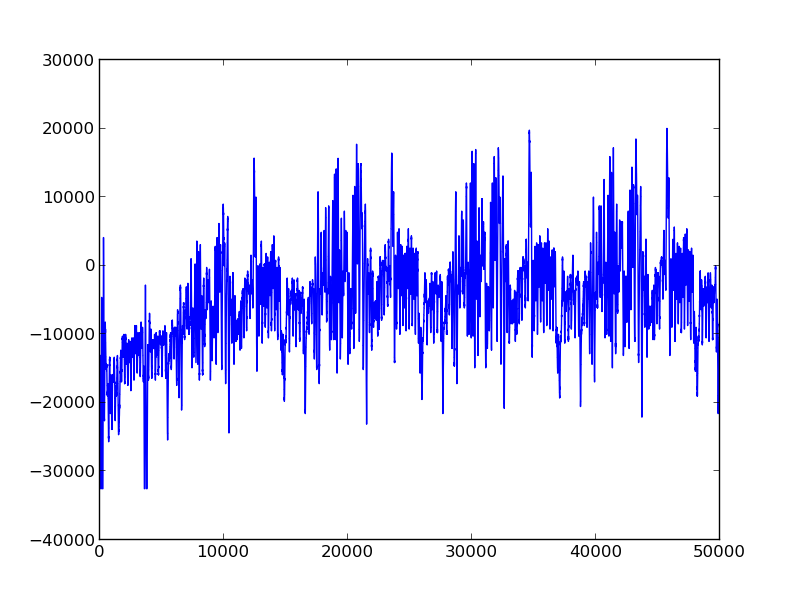
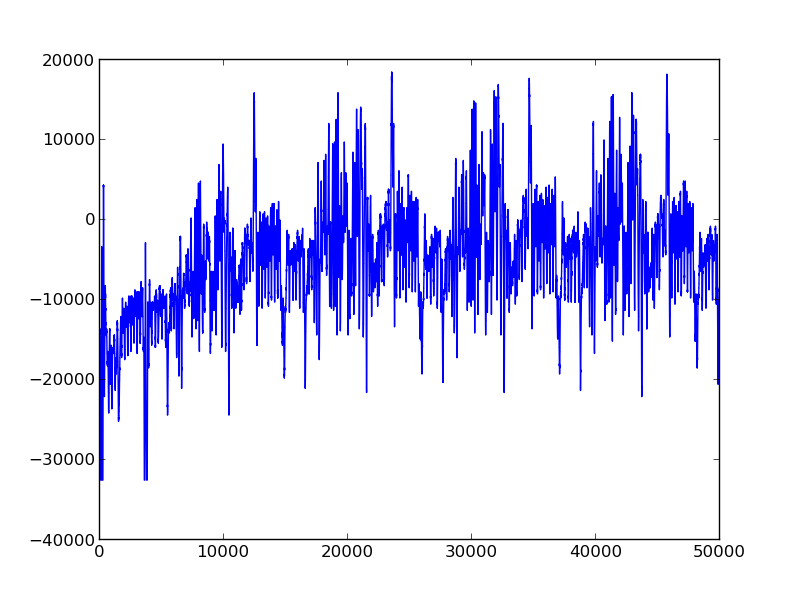
new attack

diff --git a/coursework/35743/scope/attack.py b/coursework/35743/scope/attack.py
@@ -300,79 +300,31 @@ def attack( argc, argv):
     print(T.shape)
     print(numberOfTraces)
     print(noOfSamplesInTrace)
-    noOfSamplesUsed = 300
+    noOfSamplesUsed = numberOfTraces
     finalKey = []
-    startingTraceValue = 3000
-    windowSize = 3000
-    timeKeyFinds = []
     for keyByte in range (16):
-
-
-
         print("keybyte: ", keyByte)
-        correlationTable = numpy.zeros((windowSize, 256))
-        plotKeyTries = []
         maxCorrelation = 0
         bestKey = -1
         timeFound = -1
         plotcorrelations = []
-        hypotheticalConsumptions = numpy.zeros((256, noOfSamplesInTrace))
+        hypotheticalConsumptions = numpy.zeros((256, noOfSamplesUsed))
         for keyHypothesis in range(256):
             for sampleNumber in range(noOfSamplesUsed):
                 plaintextByte = M[sampleNumber, keyByte]
                 hypotheticalConsumptions[keyHypothesis][sampleNumber] = hammingWeightConsumption(plaintextByte, keyHypothesis)
-        correlations = corr2_coeff(hypotheticalConsumptions, T)
-        argumentPosition = numpy.nanargmax(correlations)
-        xpos = argumentPosition % 300
-        ypos = (argumentPosition-xpos) / 256
+        correlations = numpy.abs(corr2_coeff(hypotheticalConsumptions, T.T))
+        print("testtttt")
+        print(hypotheticalConsumptions.shape)
+        print(T.shape)
+        print(correlations.shape)
 
-        max = 0
-        bigi = 0
-        bigj= 0
-        for i  in range(256):
-            for j in range(300):
-                if(abs(correlations[i][j]) > max):
-                    max = abs(correlations[i][j])
-                    bigi = i
-                    bigj = j
-        print(max, bigi, bigj)
-        print(xpos, ypos)
-        numpy.nanmax(correlations)
-        print(correlations)
-        '''
-        for keyHypothesis in range(256):
-            hypotheticalConsumptions = numpy.zeros(())
+        keyFound = numpy.nanargmax(numpy.nanmax(correlations, axis = 1))
+        print(keyFound)
+        finalKey.append(keyFound)
+        print("key byte:", hex(keyFound))
 
-
-            thismaxcorrelation = 0
-            hypoConsumptions = []
-            for sampleNumber in range(noOfSamplesUsed):
-                plaintextByte = M[sampleNumber, keyByte]
-                hypotheticalPowerConsumption = hammingWeightConsumption(plaintextByte, keyHypothesis)
-                hypoConsumptions.append(hypotheticalPowerConsumption)
-            for timeRecording in range(startingTraceValue, (windowSize+startingTraceValue)):
-                correlation = abs(corr2_coeff(T[:noOfSamplesUsed, timeRecording], hypoConsumptions))
-                if (correlation > maxCorrelation):
-                    maxCorrelation = correlation
-                    bestKey = keyHypothesis
-                    timeFound = timeRecording
-                if(correlation > thismaxcorrelation):
-                    thismaxcorrelation = correlation
-                correlationTable[timeRecording-startingTraceValue, keyHypothesis] = correlation
-            if(keyByte == 0):
-                plotcorrelations.append(thismaxcorrelation)
-            plotKeyTries.append(thismaxcorrelation)
-        '''
-        finalKey.append(bigi)
-        #timeKeyFinds.append(timeFound)
-        print("best key", hex(bigi))
-        #print("time found: ", timeFound)
-
-    #xaxis = numpy.linspace(0, 256, 256)
-    #plt.plot(xaxis, plotcorrelations, )
-
-    #plt.savefig('correlationsS.png')
-    print(finalKey)
+    print((finalKey))
 
     checkKey(finalKey, M[0,:], C[0,:])
 

diff --git a/coursework/35743/board/target.c b/coursework/35743/board/target.c
@@ -332,7 +332,7 @@ int main( int argc, char* argv[] ) {
     return -1;
   }
 
-  uint8_t cmd[ 1 ], c[ SIZEOF_BLK ], m[ SIZEOF_BLK ] = {0x32, 0x43, 0xF6, 0xA8, 0x88, 0x5A, 0x30, 0x8D, 0x31, 0x31, 0x98, 0xA2, 0xE0, 0x37, 0x07, 0x34}, k[ SIZEOF_KEY ] = { 0x2B, 0x7E, 0x15, 0x16, 0x28, 0xAE, 0xD2, 0xA6, 0xAB, 0xF7, 0x15, 0x88, 0x09, 0xCF, 0x4F, 0x3C }, r[ SIZEOF_RND ] = {0x01,0x02,0x03,0x04,0x05,0x06};
+  uint8_t cmd[ 1 ], c[ SIZEOF_BLK ], m[ SIZEOF_BLK ] = {0x32, 0x43, 0xF6, 0xA8, 0x88, 0x5A, 0x30, 0x8D, 0x31, 0x31, 0x98, 0xA2, 0xE0, 0x37, 0x07, 0x34}, k[ SIZEOF_KEY ] = { 0xCD, 0x97, 0x16, 0xE9, 0x5B, 0x42, 0xDD, 0x48, 0x69, 0x77, 0x2A, 0x34, 0x6A, 0x7F, 0x58, 0x13 }, r[ SIZEOF_RND ] = {0x01,0x02,0x03,0x04,0x05,0x06};
 
   while( true ) {
     if( 1 != octetstr_rd( cmd, 1 ) ) {
@@ -342,9 +342,9 @@ int main( int argc, char* argv[] ) {
     switch( cmd[ 0 ] ) {
       case COMMAND_INSPECT : {
         uint8_t t = SIZEOF_BLK;
-                    octetstr_wr( &t, 5 );
+                    octetstr_wr( &t, 1 );
                 t = SIZEOF_KEY;
-                    octetstr_wr( &t, 5 );
+                    octetstr_wr( &t, 1 );
                 t = SIZEOF_RND;
                     octetstr_wr( &t, 1 );
 
